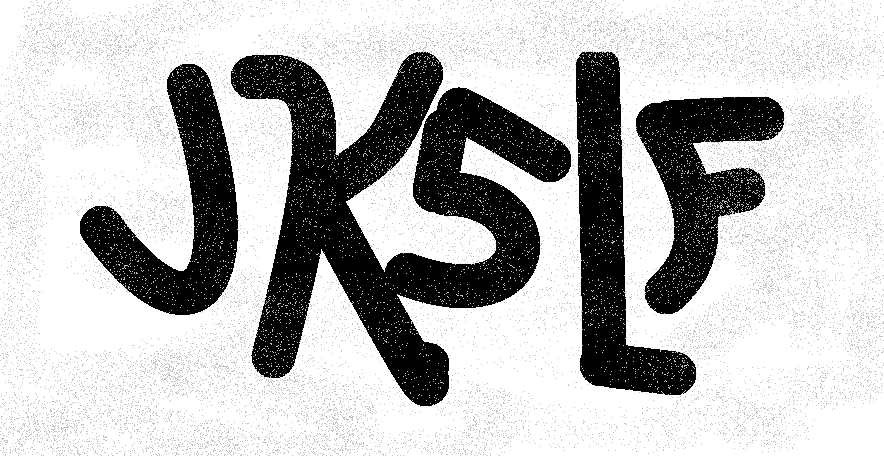
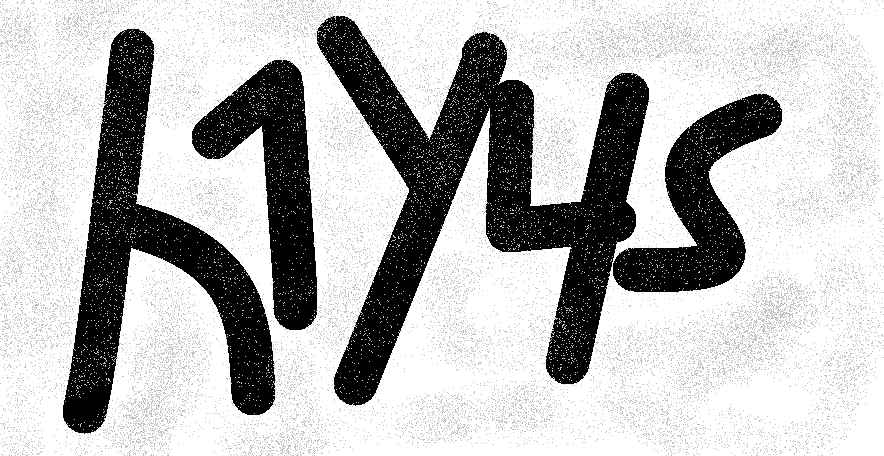
added captcha

diff --git a/src/js/javascript.js b/src/js/javascript.js
@@ -1,6 +1,11 @@
 document.querySelector('#btn-menu').addEventListener("click", toggleMenu);
 document.querySelector("#darkMode").addEventListener("click", darkMode);
 
+let captchArreglo = ['jk5lf','h1y4s','d3toa','rg7eb']
+let indice=(Math.floor(Math.random() * 4) + 0);
+document.querySelector("#captchaImg").src="images/captcha" + indice + ".png";
+document.querySelector("#sbmtBtn").addEventListener("click", captchaCheck) 
+
 function toggleMenu() {
 
     document.querySelector(".navigation").classList.toggle("show");
@@ -16,3 +21,21 @@ function darkMode() {
     
 }
 
+function captchaCheck(){
+    let flag= false;
+    let captchaInput=document.querySelector("#inputCaptcha").value.toLowerCase()
+    if(captchaInput == captchArreglo[indice])
+            flag=true;
+        else
+            flag=false
+
+    let message = document.createElement("div");
+    document.querySelector(".captcha").appendChild(message)
+    if(flag){
+        message.innerHTML="Message has been sent successfully!"
+        message.classList.add("msgBueno")
+    }else{
+        message.innerHTML="Message could not be sent. Check captcha input."
+        message.classList.add("msgMalo")
+    }
+}

diff --git a/src/css/style.css b/src/css/style.css
@@ -1,3 +1,6 @@
+body{
+    margin: 0;
+}
 .logo{
     display: flex;
     align-items: center;
@@ -85,7 +88,7 @@ footer{
     display: block;
     background-color: black;
     position: relative;
-    width: 100%;
+    width: 95%;
     bottom: 0%;
     padding: 2%;
     margin: 0;
@@ -125,6 +128,18 @@ footer ul li a{
     margin: 2px;
 }
 
+#captchaImg{
+    width: 15%;
+}
+.msgBueno{
+    font-weight: bold;
+    color: green;
+}
+.msgMalo{
+    font-weight: bold;
+    color: red;
+}
+
 @media only screen and (min-width: 768px) { 
 
     .logo{
@@ -162,7 +177,7 @@ footer ul li a{
         align-items: center;
         background-color: black;
         position: relative;
-        width: 100%;
+        width: 95%;
         bottom: 0%;
         padding: 2%;
         margin: 0;

diff --git a/src/contact.html b/src/contact.html
@@ -59,9 +59,9 @@
                 </div>
             </div>
             <div class="captcha">
-                <img src="" alt="" id="captchaImg">
+                <img src="" alt="captcha" id="captchaImg">
                 <input type="text" name="captcha" id="inputCaptcha">
-                <button>Sumbit Message</button>
+                <button id="sbmtBtn">Sumbit Message</button>
             </div>
         </form>
     </main>
